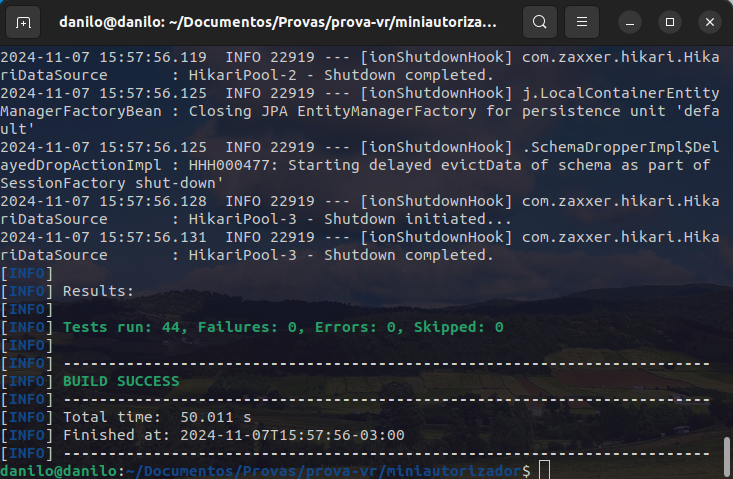
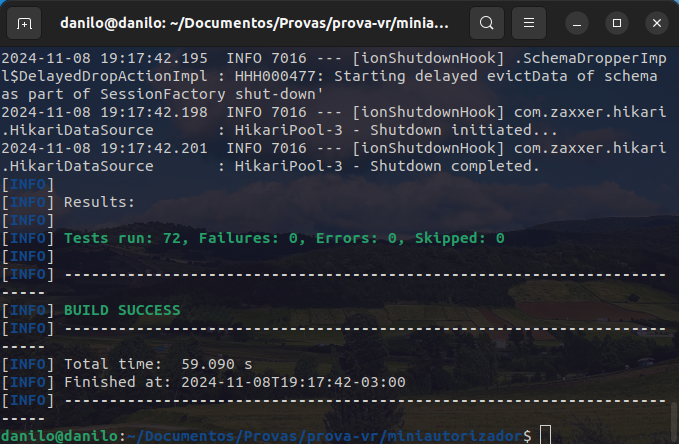
Ajustes na cobertura dos testes unitários

diff --git a/miniautorizador/src/main/java/api/model/errors/CommonErrors.java b/miniautorizador/src/main/java/api/model/errors/CommonErrors.java
@@ -10,4 +10,7 @@ public class CommonErrors {
 
     public static final ErrorModel UNEXPECTED_ERROR = new ErrorModel(HttpStatus.INTERNAL_SERVER_ERROR.value(), "500000", "Erro inesperado");
 
+    private CommonErrors() {
+    }
+
 }

diff --git a/README.md b/README.md
@@ -2,6 +2,7 @@
 
 Avaliação técnica de uma API de Mini Autorizador, desenvolvido em Java com Spring-Boot.
 
+
 ## Características
 
 - CRUD
@@ -12,12 +13,14 @@ Avaliação técnica de uma API de Mini Autorizador, desenvolvido em Java com Sp
 - Exception
 - MockMVC
 
+
 ## Requisitos
 
 - Java JDK 17
 - Apache Maven >= 3.8.6
 - MySql 8
 - Docker (Opcional)
+
 
 ## Tecnologias
 
@@ -31,6 +34,7 @@ Avaliação técnica de uma API de Mini Autorizador, desenvolvido em Java com Sp
 - JUnit
 - SonarQube
 - Docker
+
 
 ## Instalação
 
@@ -54,6 +58,7 @@ $ mvn spring-boot:run -Dspring-boot.run.profiles=dev
 ```
 
 Caso não tenha o Maven instalado ou tenha outra versão, pode usar o comando ./mvnw (no Linux) ou mvnw.cmd (no Windows).
+
 
 ## Docker (Opcional)
 
@@ -82,6 +87,7 @@ http://localhost:8080/cartoes
 Listar transações cadastradas: <br>
 http://localhost:8080/transacoes
 
+
 ## Swagger 
 
 Documentação da API RESTful: <br>
@@ -92,6 +98,7 @@ Login:
   - Usuário: username
   - Senha: password
 
+
 ## SonarQube
 
 Para verificar a cobertura de testes, primeiro acesse o seguinte endereço: <br>
@@ -100,15 +107,10 @@ http://localhost:9000
 Depois efetue o login preenchendo "admin" no usuário e senha (login padrão). <br>
 Ao se logar crie um novo projeto e gere o token.
 
-Feito isso, entre no container criado da api:
-
-```
-$ docker exec -it api bash
-```
-
 Execute o seguinte comando do sonar:
 
 ```
+$ cd miniautorizador
 $ mvn clean verify sonar:sonar \
   -Dsonar.projectKey=NOME_PROJETO_GERADO \
   -Dsonar.host.url=http://localhost:9000 \
@@ -128,6 +130,7 @@ $ cd miniautorizador
 $ mvn test
 ```
 
+
 ## Screenshots
 
 Swagger-UI <br>
@@ -138,6 +141,9 @@ Modelagem ER <br>
 
 Testes Unitários <br>
 ![Screenshots](screenshots/screenshot03.png) <br><br>
+
+SonarQube <br>
+![Screenshots](screenshots/screenshot04.png) <br><br>
 
 
 ## Licença
